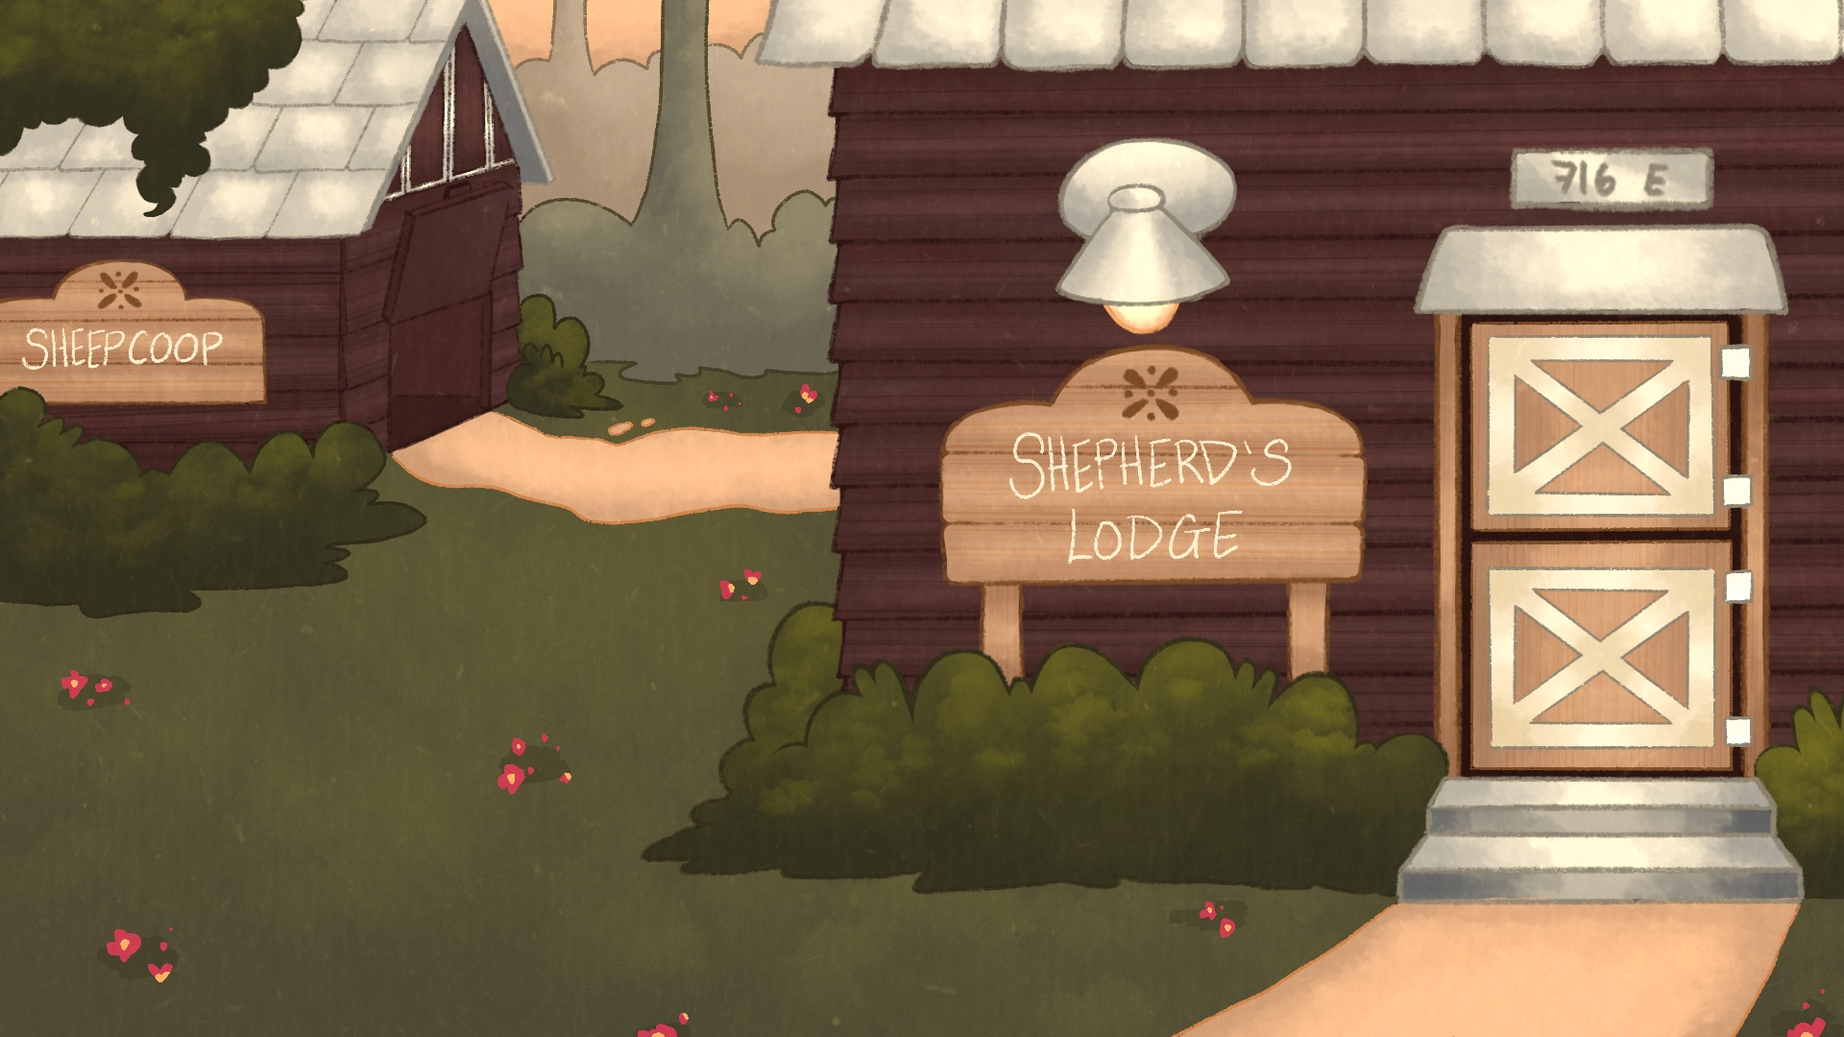
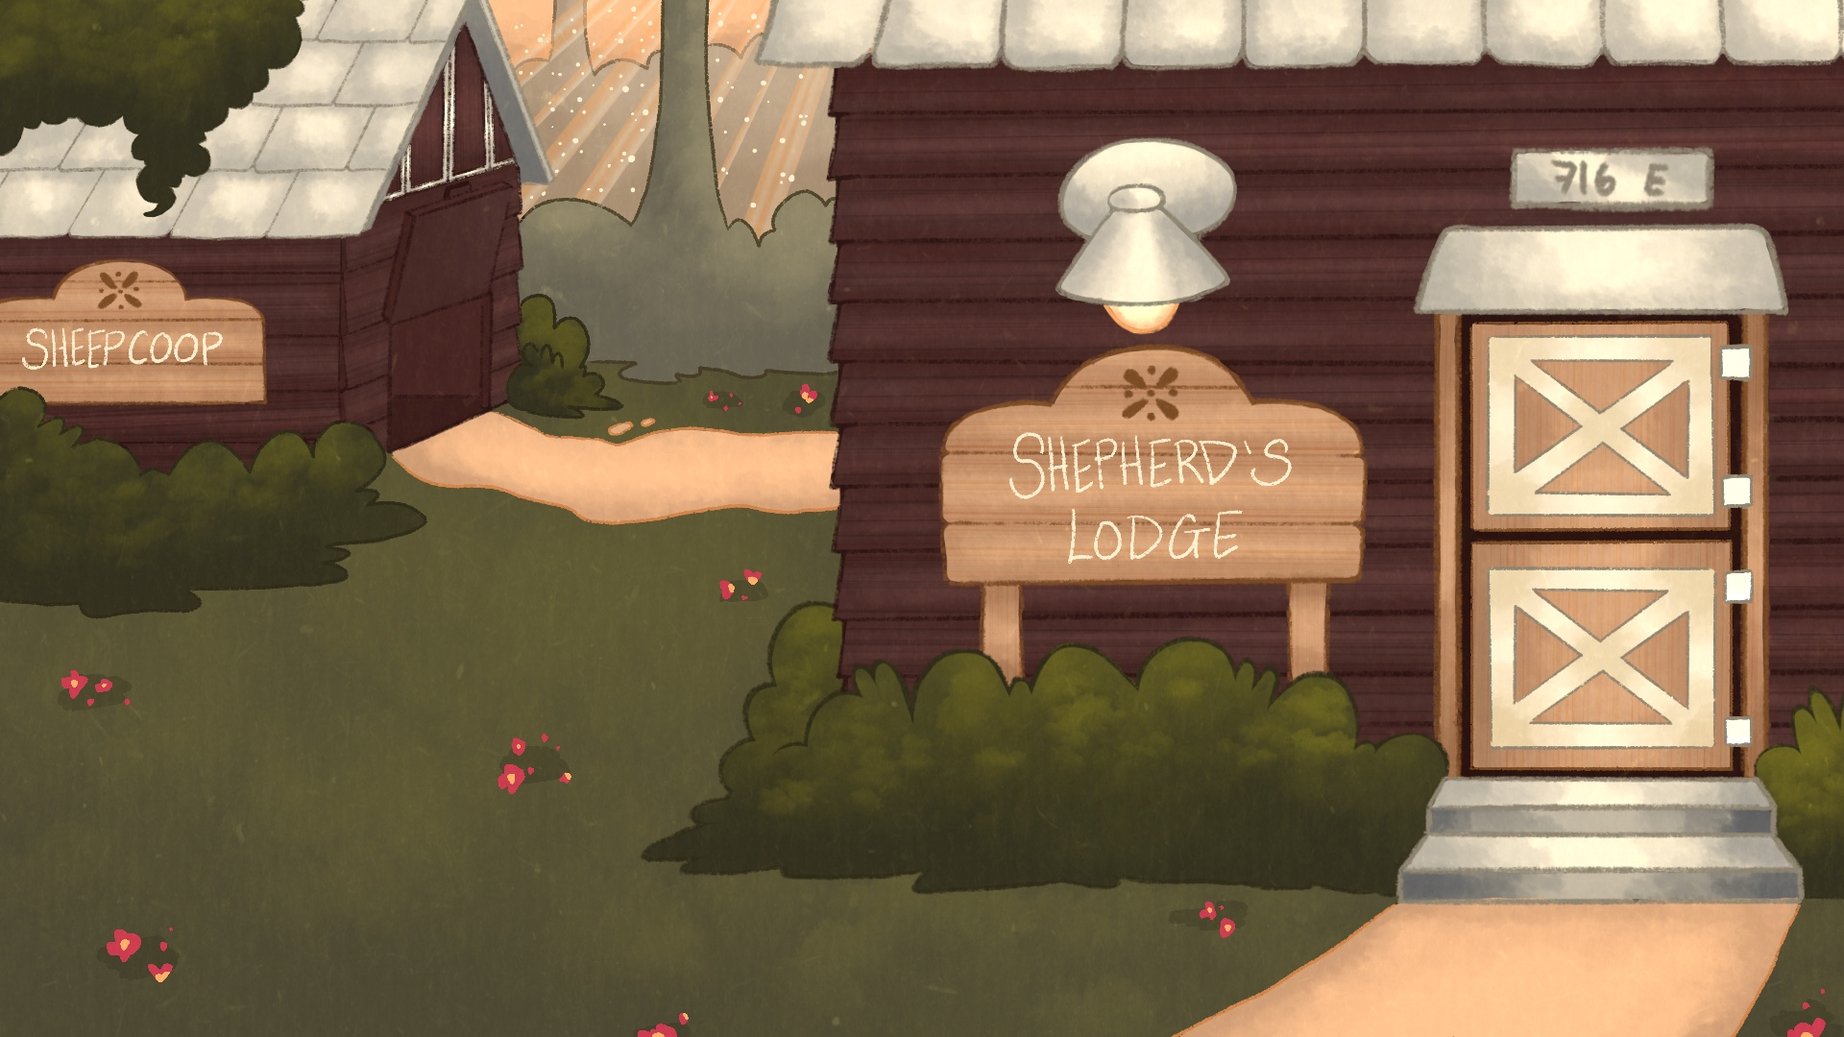
FINAL Update

Changed region(s): [[0.2812, 0.0, 0.4688, 0.2444]]

diff --git a/FINAL/index.html b/FINAL/index.html
@@ -14,7 +14,7 @@
     <p id="story">You are in a whimsical little forest; sunlight streams through the overhead canopies and dapples on the ground in pretty little patterns. You're not entirely sure where you are, but I'm sure you'll manage. In front of you, you see a wooden sign with two arrow signs, both pointing down different paths. Which do you follow?</p>
     <div id="choices">
       <button onclick="choosePath(1)">"Cottonwood Sheep Ranch"</button>
-      <button onclick="choosePath(2)">"Shorefront"</button>
+      <button onclick="choosePath(2)">"Shoreline"</button>
     </div>
   </div>
 
@@ -24,6 +24,16 @@
 
     var storyProgress = "";
 
+    function goToStart() {
+      storyProgress = "";
+      const storyElement = document.getElementById('story');
+      const imageElement = document.getElementById('scene-image');
+      storyElement.textContent = "You are in a whimsical little forest; sunlight streams through the overhead canopies and dapples on the ground in pretty little patterns. You're not entirely sure where you are, but I'm sure you'll manage. In front of you, you see a wooden sign with two arrow signs, both pointing down different paths. Which do you follow?";
+      imageElement.src = "images/wtFinal1.jpg";
+      document.getElementById('choices').innerHTML = `
+        <button onclick="choosePath(1)">"Cottonwood Sheep Ranch"</button>
+        <button onclick="choosePath(2)">"Shoreline"</button>`;
+}
     function choosePath(choice) {
       const storyElement = document.getElementById('story');
       const imageElement = document.getElementById('scene-image');
@@ -33,101 +43,122 @@
 
       window.scrollTo(0, 0);
 
-
       //PATH ONE - Cottonwood Sheep Ranch
       if (choice === 1) {
         storyProgress += "You follow the path marked 'Cottonwood Sheep Ranch'. ";
         storyElement.textContent = storyProgress + "The walk takes a while, but eventually you come across two small buildings: one marked 'Shepherd's Lodge', and the other marked 'Sheep Coop'. Which do you head for?";
         imageElement.src = "images/wtFinal2.jpg";
         document.getElementById('choices').innerHTML = `
+          <button onclick="goToStart()">Return to start</button>
           <button onclick="choosePath(4)">The shepherd's lodge</button>
           <button onclick="choosePath(5)">The sheep coop</button>`;
       } 
       //PATH TWO - Shorefront
       else if (choice === 2) {
-        storyProgress += "You follow that path marked 'Shorefront'. ";
-        storyElement.textContent = storyProgress + "The smell of salt and warm sand carries on the breeze as you approach, and the forest receeds back behind you. When your feet hit the beach, you feel a wave of relaxation wash over you. You see a quaint little cottage to your left and a sandy white shoreline to your right. Which do you head for?";
-        imageElement.src = "images/raccoon.jpg";
+        storyProgress += "You follow that path marked 'Shoreline'. ";
+        storyElement.textContent = storyProgress + "The smell of salt and warm sand carries on the breeze as you approach, and the forest receeds back behind you. When your feet hit the beach, you feel a wave of relaxation wash over you. You see a quaint little cottage to your left and a sandy shoreline to your right. Which do you head for?";
+        imageElement.src = "images/wtFinal8.jpg";
         document.getElementById('choices').innerHTML = `
+          <button onclick="goToStart()">Return to start</button>
           <button onclick="choosePath(6)">The cottage</button>
           <button onclick="choosePath(7)">The beach</button>`;
       } 
       //PATH ONE lodge
       else if (choice === 4) {
-        storyElement.textContent = "You walk up to the shepherd's lodge and knock on the heavy wooden door. As you wait, you look around. The lodge is a log cabin that looks particularly warm and inviting. Before you get a chance to think about the deep scratches along the base of the door, it swings open and you're met with the face a pretty blonde woman in red overalls. ''Hi! Can I help you?'' Before you can open your mouth, the woman is shoved out of the way and a large red hound scurries out, tail wagging a million miles an hour as he climbs all over you. ''Oh, bud, no! Down!'' She exclaims, pulling him away by the collar. ''Don't worry about him, he's a gentle giant. He helps me with the sheep. I'm Hennley. You look lost. Want to come in for tea?''" ;
+        storyElement.textContent = "You walk up to the shepherd's lodge and knock on the heavy wooden door. As you wait, you look around. The lodge is a log cabin that looks particularly warm and inviting. Before you get a chance to think about the deep scratches along the base of the door, it swings open and you're met with the face a pretty blonde woman in red overalls. ''Hi! Can I help you?'' Before you can open your mouth, the woman is shoved out of the way and a large red Hound scurries out, tail wagging a million miles an hour as he climbs all over you. ''Oh, bud, no! Down!'' She exclaims, pulling him away by the collar. ''Don't worry about him, he's a gentle giant. He helps me with the sheep. I'm Hennley. You look lost. Want to come in for tea?''" ;
         imageElement.src = "images/wtFinal3.jpg";
         document.getElementById('choices').innerHTML = `
+          <button onclick="goToStart()">Return to start</button>
           <button onclick="choosePath(10)">Accept the invitation</button>
-          <button onclick="choosePath(11)">Eye warily at her hound</button>`;
+          <button onclick="choosePath(11)">Eye warily at her Hound</button>`;
       } 
       //PATH ONE lodge
       else if (choice === 10) {
-        storyElement.textContent = "You accept her kind invitation and she leads you into her kitchen. You take a seat at the counter as she puts a kettle on the stove. Her hound curls up by your feet, looking up at you with big yellow puppy dog eyes. You reach down and give him a pat. His tail thumps on the tile. Aw, he really is just a big sweetheart. Hennley passes you a teacup and sits across from you with her own. You chat for hours about what she does - she cares for a flock of itsy bitsy sheep. She smiles at you. Congrats, you've just made yourself a brand new friend! Refresh to restart." ;
+        storyElement.textContent = "You accept her kind invitation and she leads you into her kitchen. You take a seat at the counter as she puts a kettle on the stove. Her Hound curls up by your feet, looking up at you with big yellow puppy dog eyes. You reach down and give him a pat. His tail thumps on the tile. Aw, he really is just a big sweetheart. Hennley passes you a teacup and sits across from you with her own. You chat for hours about what she does - she cares for a flock of itsy bitsy sheep. She smiles at you. Congrats, you've just made yourself a brand new friend!" ;
         imageElement.src = "images/wtFinal4.jpg";
-        document.getElementById('choices').innerHTML = "";
+        document.getElementById('choices').innerHTML = `
+          <button onclick="goToStart()">Return to Start</button>`;
+
 
       }
       //PATH ONE lodge
       else if (choice === 11) {
-        storyElement.textContent = "You warily gaze at the hound she's holding by the collar. ''Really, I promise, he's super nice. I can send him in with the sheep if you're uncomfortable, though.'' The hound lets out a pathetic whine, but dutifully does as he's told. You watch him trudge off to the sheep coop, looking back only once with big, sad eyes. ''Good boy!'' she calls after him. ''Now, you look lost.'' She sits down in the front yard and motions for you to join her. You both chat for a bit. You look over at the sheep coop to see the hound looking heartbroken. He let's out another sad whine, and you feel horrible. Maybe he was a good boy after all. If only you had given him a chance. Refresh to restart." ;
+        storyElement.textContent = "You warily gaze at the Hound she's holding by the collar. ''Really, I promise, he's super nice. I can send him in with the sheep if you're uncomfortable, though.'' The Hound lets out a pathetic whine, but dutifully does as he's told. You watch him trudge off to the sheep coop, looking back only once with big, sad eyes. ''Good boy!'' she calls after him. ''Now, you look lost.'' She sits down in the front yard and motions for you to join her. You both chat for a bit. You look over at the sheep coop to see the Hound looking heartbroken. He let's out another sad whine, and you feel horrible. Maybe he was a good boy after all. If only you had given him a chance." ;
         imageElement.src = "images/wtFinal5.jpg";
-        document.getElementById('choices').innerHTML = "";
+        document.getElementById('choices').innerHTML = `
+          <button onclick="goToStart()">Return to Start</button>`;
       }
       //PATH ONE coop
       else if (choice === 5) {
         storyElement.textContent = "You head over to the sheep coop. It's rather small. How can you fit more than a couple sheep in here? You peer in through a tiny window to see a flock of the tiniest little fluffballs you've ever seen. All of the sheep are about the size of a softball, and your heart melts. A little black one, the only in the herd, floats his way up to the window (they can fly!) and baas a greeting. You wave happily with a big grin on your face. Before long, a whole cloud of them are clouding the window trying to get a look at you. What will you do next?";
-        imageElement.src = "images/raccoon.jpg";
+        imageElement.src = "images/wtFinal6.jpg";
         document.getElementById('choices').innerHTML = `
+          <button onclick="goToStart()">Return to start</button>
           <button onclick="choosePath(12)">Enter the coop</button>
           <button onclick="choosePath(4)">Walk over to the shepherd's lodge</button>`;
       } 
          //PATH ONE coop
          else if (choice === 12) {
-        storyElement.textContent = "You enter the coop and are immediately bombarded by a massive swarm of bleating little sheep. They stick to you like dryer lint. They invade your pockets. They're in your hair. They're so happy to meet you! You pluck one from your face and look at it in your hand. He circles around like a dog and lays down in your palm with a contented sigh. He's SO soft! You pet his itty bitty head and gaze in awe at the floating little cottonballs all around you. Clearly, this forest is more whimsical than you originally thought. Refresh to restart." ;
-        imageElement.src = "images/raccoon.jpg";
-        document.getElementById('choices').innerHTML = "";
+        storyElement.textContent = "You enter the coop and are immediately bombarded by a massive swarm of bleating little sheep. They stick to you like dryer lint. They invade your pockets. They're in your hair. They're so happy to meet you! You pluck one from your face and look at it in your hand. He circles around like a dog and lays down in your palm with a contented sigh. He's SO soft! You pet his itty bitty head and gaze in awe at the floating little cottonballs all around you. Clearly, this forest is more whimsical than you originally thought." ;
+        imageElement.src = "images/wtFinal7.jpg";
+        document.getElementById('choices').innerHTML = `
+          <button onclick="goToStart()">Return to Start</button>`;
       }
 
       
       //PATH TWO cottage
       else if (choice === 6) {
         storyElement.textContent = "You head for the cottage. As you approach, the sunlight seems to glow a little warmer. The cottage is small and yellow, and it's surounded by a beautifully lush garden. Every little leaf seems to be stretching towards the sky, and it fills you with a strong sense of wonder. You skip over to the door and give it a hearty knock. It flies open and you're met with a cheery... vegetable woman? Literally. Her head is an actual rutabaga. She perks up and slams the door in your face. Uh. Alright. She comes back just as quickly with another person - a bright pink dog lady. She waves at you and prompty sets a trowel in your hand. They both push you out into the garden and they get to work in the dirt. What do you do?";
-        imageElement.src = "images/raccoon.jpg";
+        imageElement.src = "images/wtFinal9.jpg";
         document.getElementById('choices').innerHTML = `
+          <button onclick="goToStart()">Return to start</button>
           <button onclick="choosePath(13)">Help them</button>
           <button onclick="choosePath(14)">Watch</button>`;
       } 
         //PATH TWO cottage
         else if (choice === 13) {
-        storyElement.textContent = "You throw caution to the wind and kneel in front of the garden. The dog points to various clusters of weeds and you seem to get the idea. You all work together for a little bit, and by the time you're done, the garden is pristine and weed-free. You wipe the sweat from your forehead and look over at the pair of gardeners. The dog, who's name you learn is Bibi, shakes your hand and passes you a basket full of the brightest, juciest tomatoes you've ever seen. Your mouth waters at the sight of them. The vegetable woman, Ruthabaga, pats you on the back with an approving nod. You're a little confused how you got roped into this, but grateful nonetheless. You have tomatoes now. Congratulations! Refresh to restart.";
-        imageElement.src = "images/raccoon.jpg";
-        document.getElementById('choices').innerHTML = "";
+        storyElement.textContent = "You throw caution to the wind and kneel in front of the garden. The dog points to various clusters of weeds and you seem to get the idea. You all work together for a little bit, and by the time you're done, the garden is pristine and weed-free. You wipe the sweat from your forehead and look over at the pair of gardeners. The dog, who's name you learn is Bibi, shakes your hand and passes you a basket full of the brightest, juciest tomatoes you've ever seen. Your mouth waters at the sight of them. The vegetable woman, Ruthabaga, pats you on the back with an approving nod. You're a little confused how you got roped into this, but grateful nonetheless. You have tomatoes now. Congratulations!";
+        imageElement.src = "images/wtFinal10.jpg";
+        document.getElementById('choices').innerHTML = `
+          <button onclick="goToStart()">Return to Start</button>`;
       }
           //PATH TWO cottage
         else if (choice === 14) {
-        storyElement.textContent = "You simply stand back and watch, trowel in hand. The pair absolutely go to town on the garden and all you can do is stare. They're harvesting some of the most beautiful vegetables you've ever seen. Neither of them say a word, but they seem to communicate with each other effortlessly enough. The vegetable woman looks up at you with a confused look on her face and walks over. She sees the sweat on your brow, squints up at the sun, then plops a big ol' sunhat on your head before going back to work. I guess they don't mind that you're not helping. As confused as you are, it's nice to have company. Perhaps you should help them pluck a carrot or two while you're here, just to be nice. Refresh to restart.";
-        imageElement.src = "images/raccoon.jpg";
-        document.getElementById('choices').innerHTML = "";
+        storyElement.textContent = "You simply stand back and watch, trowel in hand. The pair absolutely go to town on the garden and all you can do is stare. They're harvesting some of the most beautiful vegetables you've ever seen. Neither of them say a word, but they seem to communicate with each other effortlessly enough. The vegetable woman looks up at you with a confused look on her face and walks over. She sees the sweat on your brow, squints up at the sun, then plops a big ol' sunhat on your head before going back to work. I guess they don't mind that you're not helping. As confused as you are, it's nice to have company. Perhaps you should help them pluck a carrot or two while you're here, just to be nice.";
+        imageElement.src = "images/wtFinal11.jpg";
+        document.getElementById('choices').innerHTML = `
+          <button onclick="goToStart()">Return to Start</button>`;
       }
       //PATH TWO beach
       else if (choice === 7) {
-        storyElement.textContent = "You head towards the beach. The sand is plush and the sun is hot. The crystal clear water froths on the shore as gulls call in the distance. It's peaceful here. You smile and sit down, enjoying the weather. ''Hey! Hi! Over here, look this way!'' You turn your head to see a woman laying in the shallow water a short distance a way. ''Could you give me a hand?'' You walk over and your eyes widen to see that she's a very pretty mermaid. She's tugging at an old fishing line that's tightly coiled around her tail. It's digging into her scales in a way that seems terribly uncomfortable.";
-        imageElement.src = "images/raccoon.jpg";
+        storyElement.textContent = "You head towards the beach. The sand is plush and the sun is hot. The crystal clear water froths on the shore as gulls call in the distance. It's peaceful here. You smile and sit down, enjoying the weather. You tilt your face to the sky and feel the breeze on your skin. ''Hey! Hi! Over here, look this way!'' You turn your head to see a woman laying in the shallow water a short distance a way.";
+        imageElement.src = "images/wtFinal12.jpg";
         document.getElementById('choices').innerHTML = `
+          <button onclick="goToStart()">Return to start</button>
+          <button onclick="choosePath(17)">Continue</button>`;
+      } 
+            //PATH TWO beach
+            else if (choice === 17) {
+        storyElement.textContent = "You walk over and your eyes widen to see that she's a very pretty mermaid. She's tugging at an old fishing line that's tightly coiled around her tail. It's digging into her scales in a way that seems terribly uncomfortable. ''Could you give me a hand?''";
+        imageElement.src = "images/wtFinal13.jpg";
+        document.getElementById('choices').innerHTML = `
+          <button onclick="goToStart()">Return to start</button>
           <button onclick="choosePath(15)">Tug with her</button>
           <button onclick="choosePath(16)">Get creative</button>`;
       } 
       //PATH TWO beach
       else if (choice === 15) {
-        storyElement.textContent = "You kneel down beside her and start tugging on the line. She winces as it catches some of her scales. With a bit of effort and a considerable amount of time later, you've loosened the line enough to pull it off of her. Unfortunately, you've taken a lot of scales off with it. The bare patches on her tail look painful. ''Thank you for your help,'' she says. ''I thought I'd be tangled up like that forever!'' You nod and she drags herself back over to the water. Golly, if a mermaid could limp, that's what she'd be doing. Maybe there was a way to get the line off without hurting her so much in the process. Refresh to restart.";
-        imageElement.src = "images/raccoon.jpg";
-        document.getElementById('choices').innerHTML = "";
+        storyElement.textContent = "You kneel down beside her and start tugging on the line. She winces as it catches some of her scales. With a bit of effort and a considerable amount of time later, you've loosened the line enough to pull it off of her. Unfortunately, you've taken a lot of scales off with it. The bare patches on her tail look painful. ''Thank you for your help,'' she says. ''I thought I'd be tangled up like that forever!'' You nod and she drags herself back over to the water. Golly, if a mermaid could limp, that's what she'd be doing. Maybe there was a way to get the line off without hurting her so much in the process.";
+        imageElement.src = "images/wtFinal14.jpg";
+        document.getElementById('choices').innerHTML = `
+          <button onclick="goToStart()">Return to Start</button>`;
       } 
       //PATH THREE
       else if (choice === 16) {
-        storyElement.textContent = "You nod and inspect the fishing line. It's embedded rather deep into her tail, and any unnessesary tugging might really hurt her. You look around for a better solution. In the sand a few feet away, you see a crab crawling merrily along. You snatch him up and set him on the mermaid's tail. ''Oh, you're a genius!'' she cheers. She waves at the crab and he bounces happily. You lift up little pieces of the line and the crab starts snipping. After no time at all, the mermaid is cut loose and relatively unharmed. ''Thank you so much, you guys! Here,'' she shoves her hand into a little purse at her side and pulls out two pearls: one for you and one for the crab. ''For you both. I'm Darcie, by the way. Thank you again! I hope we meet again soon! Hopefully without the fishing line, next time,'' she chuckles. With that, she scooches back over to the water and slides right in with a soft splash. Refresh to restart.";
-        imageElement.src = "images/raccoon.jpg";
-        document.getElementById('choices').innerHTML = "";
+        storyElement.textContent = "You nod and inspect the fishing line. It's embedded rather deep into her tail, and any unnessesary tugging might really hurt her. You look around for a better solution. In the sand a few feet away, you see a crab crawling merrily along. You snatch him up and set him on the mermaid's tail. ''Oh, you're a genius!'' she cheers. She waves at the crab and he bounces happily. You lift up little pieces of the line and the crab starts snipping. After no time at all, the mermaid is cut loose and relatively unharmed. ''Thank you so much, you guys! Here,'' she shoves her hand into a little pocket in her tail and pulls out two pearls: one for you and one for the crab. ''For you both. I'm Darcie, by the way. I hope we meet again soon! Hopefully without the fishing line, next time,'' she chuckles. With that, she scooches back over to the water and slides right in with a soft splash.";
+        imageElement.src = "images/wtFinal15.jpg";
+        document.getElementById('choices').innerHTML = `
+          <button onclick="goToStart()">Return to Start</button>`;
       }
     }
   </script>

diff --git a/FINAL/style/style.css b/FINAL/style/style.css
@@ -3,7 +3,7 @@
 }
 
 body {
-    background: linear-gradient(90deg, #4a4631, #666151);;
+    background: linear-gradient(90deg, #4a4723, #696333);;
     color: #333;
     font-family: 'Courier New';
     margin: 0;
